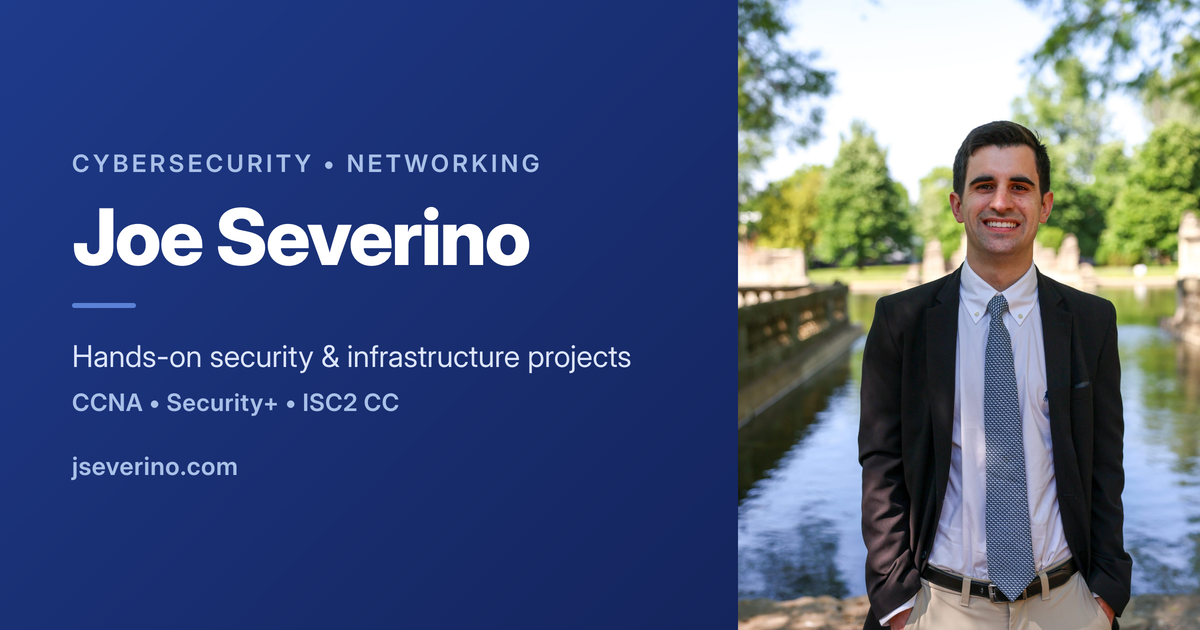
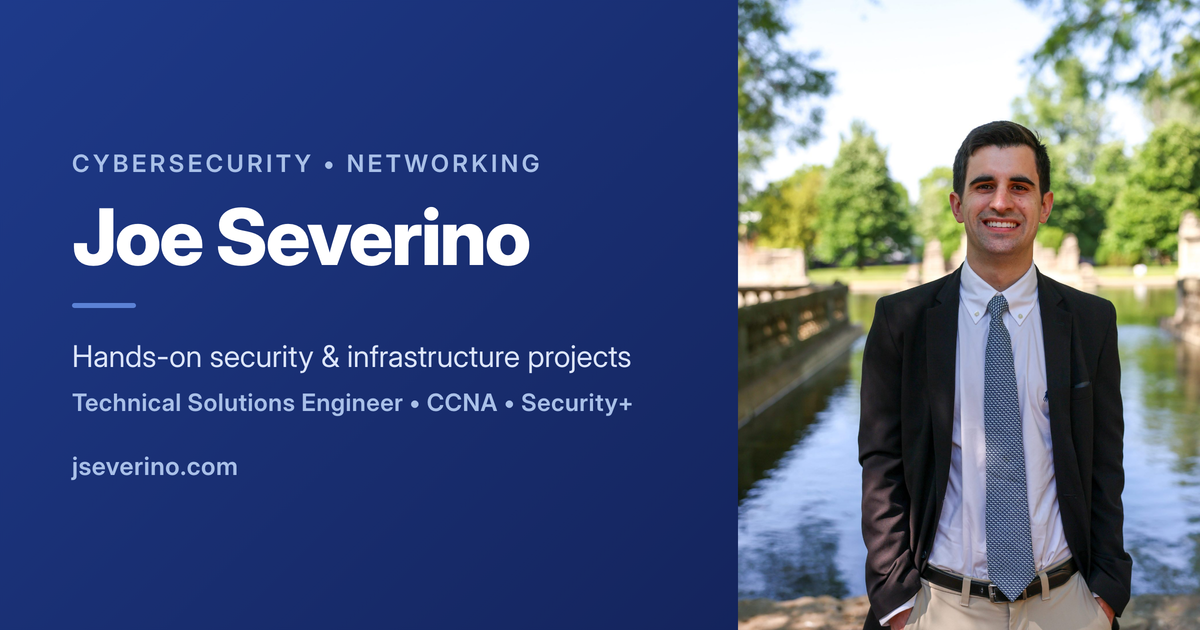
feat: update role to Technical Solutions Engineer
Hero leads with the title at World Wide Technology; ISC2 CC trimmed from
the hero and OG card. JSON-LD Person gains worksFor. Resume closes the
analyst entry and reworks its bullets around the OpenShift dashboard and
AI Core Team work. Contact copy drops the job-seeking line. Home visual
baselines re-cut for the new hero.

Changed region(s): [[0.0617, 0.6032, 0.5242, 0.6635]]

diff --git a/src/lib/site.ts b/src/lib/site.ts
@@ -5,7 +5,7 @@ import { SITE } from './site-config.mjs';
 // editorial chrome that used to live in the vault-synced src/content/site.md.
 const url = `https://${SITE.domain}`;
 const summary =
-  'Joe Severino is a cybersecurity professional and Delivery Operations Analyst focused on infrastructure, detection engineering, and secure operations.';
+  'Joe Severino is a Technical Solutions Engineer at World Wide Technology focused on infrastructure, detection engineering, and secure operations.';
 
 export const site = {
   name: SITE.owner,
@@ -16,7 +16,8 @@ export const site = {
   defaultOgImage: '/assets/og/og-default.png',
   defaultOgImageWidth: 1200,
   defaultOgImageHeight: 630,
-  jobTitle: 'Delivery Operations Analyst',
+  jobTitle: 'Technical Solutions Engineer',
+  employer: 'World Wide Technology',
   summary,
   skills: ['Cybersecurity', 'Network Security', 'Infrastructure', 'Detection Engineering', 'Homelab', 'Linux'],
   socialLinks: [

diff --git a/src/content/pages/resume.md b/src/content/pages/resume.md
@@ -60,11 +60,13 @@ published: true
 
 ### World Wide Technology — _Maryland Heights, MO_
 
-**Delivery Operations Analyst (June 2023 – Present)**
+**Technical Solutions Engineer (July 2026 – Present)**
 
+**Delivery Operations Analyst (June 2023 – July 2026)**
+
+- Rebuilt a daily Excel-based dashboard as a containerized OpenShift application on WWT's citizen-developer platform; adopted by senior leadership in its first week and advanced into IT's test environment under a principal engineer.
+- Selected for the TD&E AI Core Team on a PPM platform modernization initiative, contributing through daily standups, task refinement, and stakeholder progress demos alongside product owners, engineers, and senior leadership.
 - Automated PMO reporting workflows using PowerShell, generating a daily dashboard distributed to 200+ stakeholders and standardizing data processing across 9 recurring reports.
-- Built an Outlook-based automation combining VBA and PowerShell for project win intake that standardizes file naming and organization across multiple systems, adopted by teammates.
-- Contribute to the PMO Practice Team supporting the West and Public regions, improving financial accuracy through cost tracking, revenue forecasting, and project analysis.
 
 **Program Management Intern (May 2022 – May 2023)**
 

diff --git a/src/content/pages/home.md b/src/content/pages/home.md
@@ -1,8 +1,8 @@
 ---
 title: Joe Severino | Cybersecurity and Networking
 description: >-
-  Joe Severino is a cybersecurity professional and Delivery Operations Analyst
-  with CCNA and Security+, pursuing an M.S. in Cybersecurity at Georgia Tech.
+  Joe Severino is a Technical Solutions Engineer at World Wide Technology with
+  CCNA and Security+, pursuing an M.S. in Cybersecurity at Georgia Tech.
 path: /
 published: true
 ---
@@ -12,7 +12,8 @@ published: true
 
 # Hi, I'm Joe Severino
 
-Delivery Operations Analyst • CCNA • Security+ • ISC2 CC  
+Technical Solutions Engineer at World Wide Technology  
+CCNA • Security+  
 M.S. Cybersecurity (in progress), Georgia Tech
 
 <p class="hero-summary">Building hands-on security projects across network defense, endpoint monitoring, application hardening, and automation.</p>

diff --git a/src/content/pages/contact.md b/src/content/pages/contact.md
@@ -1,11 +1,9 @@
 ---
 title: Contact
 description: >-
-  Get in touch with Joe Severino about cybersecurity work, project
-  collaboration, or roles in security and IT operations.
-intro: >-
-  Get in touch about cybersecurity work, project collaboration, or roles in
-  security and IT operations.
+  Get in touch with Joe Severino about cybersecurity work or project
+  collaboration.
+intro: Get in touch about cybersecurity work or project collaboration.
 path: /contact/
 published: true
 ---
